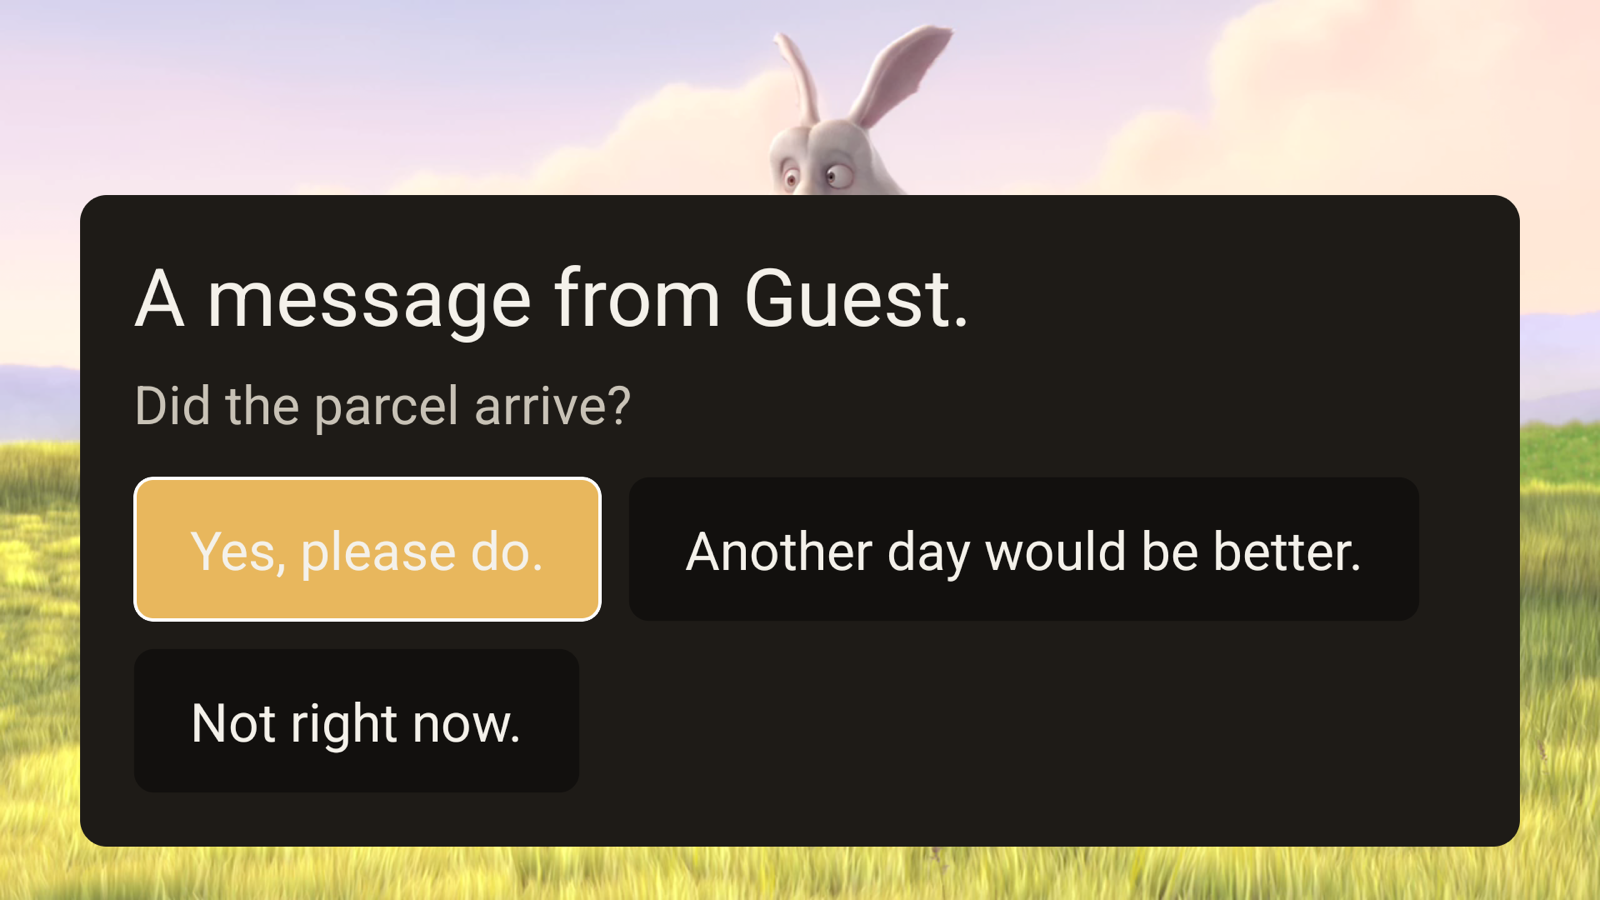
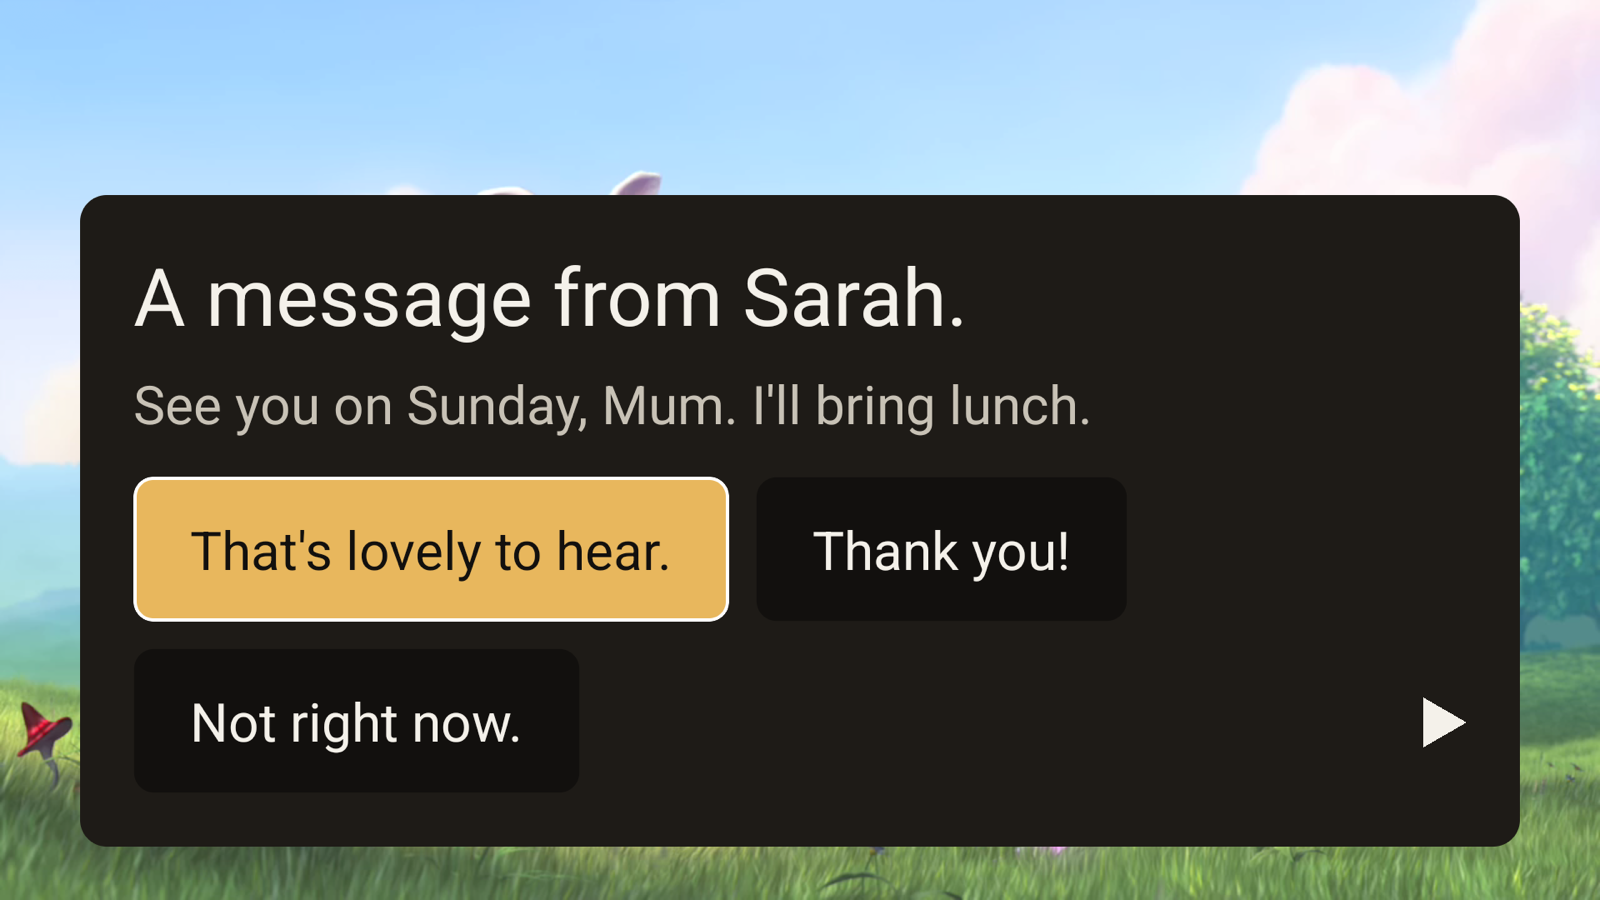
docs(screenshots): the note at a calm point is from Sarah
The picture said "A message from Guest.", the name demo accounts had
before #89. Retaken on the Fire OS build on the Android TV emulator on
16 October, in a fresh demo home: Sarah's note held at Big Buck Bunny's
first calm point.

diff --git a/README.md b/README.md
@@ -90,8 +90,8 @@ the household is a demo home.
 |---|---|
 | ![A door card over a playing film: "Movement at the front door.", a picture from the doorbell and one sentence describing it, with Watch live and Not now](docs/screenshots/door-card-over-film-vega.png) | ![A system toast over another Vega app: "Someone's at the front door. Open Wick to see who it is."](docs/screenshots/door-toast-over-another-app-vega.png) |
 | **The door card**, over a film. Vega Virtual Device, 11 October 2026. | **The door, while another app is in front**: Wick's background service posts a system toast. Vega Virtual Device, 11 October 2026. |
-| ![A note from the family held at a calm point in Big Buck Bunny, with three replies](docs/screenshots/note-at-calm-point-fireos.png) | ![The calm-point map for Big Buck Bunny: three calm points at 1:29, 3:40 and 6:11, each with frames before and after the cut](docs/screenshots/calm-point-map.png) |
-| **A note at a calm point**: the film holds on a quiet cut while it is read. Fire OS build on the Android TV emulator, 12 October 2026. | **The calm-point map**, published from what Rekognition and ffmpeg measured. [Live page](https://rogerjeasy.github.io/wick/calm-points/), 12 October 2026. |
+| ![A message from Sarah, "See you on Sunday, Mum. I'll bring lunch.", held at a calm point in Big Buck Bunny, with three replies](docs/screenshots/note-at-calm-point-fireos.png) | ![The calm-point map for Big Buck Bunny: three calm points at 1:29, 3:40 and 6:11, each with frames before and after the cut](docs/screenshots/calm-point-map.png) |
+| **A note at a calm point**: the film holds on a quiet cut while it is read. Fire OS build on the Android TV emulator, 16 October 2026. | **The calm-point map**, published from what Rekognition and ffmpeg measured. [Live page](https://rogerjeasy.github.io/wick/calm-points/), 12 October 2026. |
 | ![The question "Shall I tell Sarah? Maria usually comes on Tuesday mornings. There was no visit on Tuesday." with Tell Sarah and Keep it to myself](docs/screenshots/shall-i-tell-vega.png) | ![The question "Is this right? Maria was here on Tuesday from 12:22 pm to 1:00 pm." with Yes, that's right and No, that's not right](docs/screenshots/is-this-right-vega.png) |
 | **Shall I tell Sarah?** A day unlike the usual is put to her first. Vega Virtual Device, 16 October 2026. | **The visit, witnessed.** Only her "Yes" confirms it. Vega Virtual Device, 13 October 2026. |
 | ![The card "Your light is on." saying the family can see that her day has begun and nothing more, with Leave it on and Put it out for today](docs/screenshots/light-card-fireos.png) | ![After a film watched together: "That was Big Buck Bunny, with Sarah. What did you think of it?" with three answers](docs/screenshots/watch-together-credits-vega.png) |
